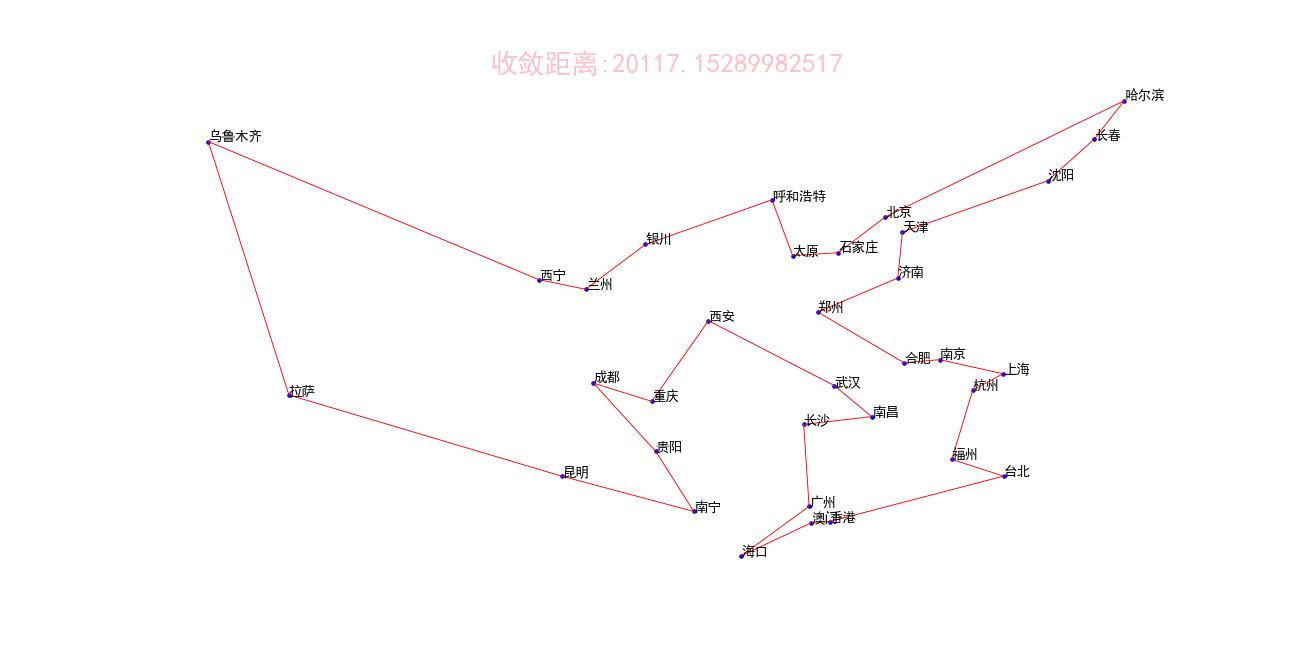
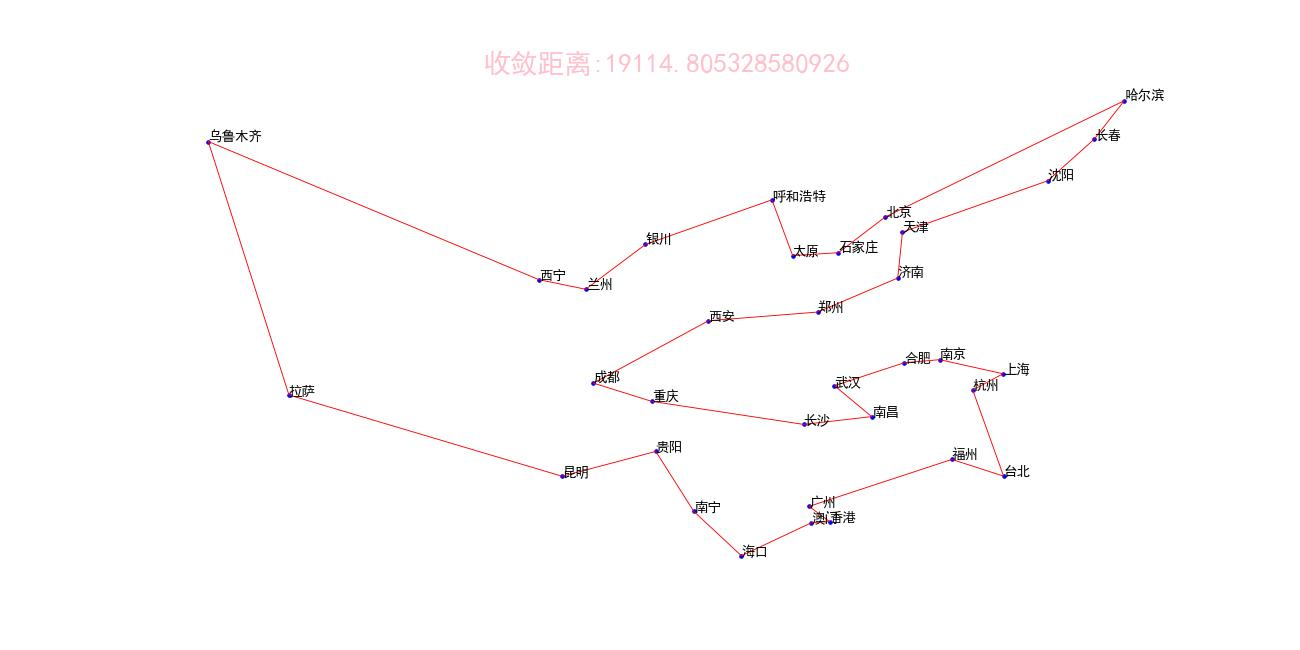
update README.md.

diff --git a/README.md b/README.md
@@ -13,33 +13,18 @@ python main.py
 ````
 
 参数分析等详细参见:[遗传算法解决TSP问题](https://www.cnblogs.com/Tenerome/articles/GATSP.html)
-### 示例
 
-#### 结果示例
-参数分析
+### 效果展示
 
-![](https://img2022.cnblogs.com/blog/2629720/202210/2629720-20221022133702696-686774422.png)
-
-![](https://img2022.cnblogs.com/blog/2629720/202210/2629720-20221022133703157-1684368219.png)
-
-![](https://img2022.cnblogs.com/blog/2629720/202210/2629720-20221022133704084-195858016.png)
-
-![](https://img2022.cnblogs.com/blog/2629720/202210/2629720-20221022133704632-869600904.png)
-
-![](https://img2022.cnblogs.com/blog/2629720/202210/2629720-20221022133705184-780704412.png)
-
-##### 主程序
-收敛距离
-
-![pic](https://img2022.cnblogs.com/blog/2629720/202210/2629720-20221022133705611-896190799.png)
-
-过程曲线图
-
-![](https://img2022.cnblogs.com/blog/2629720/202210/2629720-20221022133706056-1473367380.png)
-
+#### 主程序
 动态化
+![gif](pics/output.gif)
+收敛距离
+![pic](pics/last.jpg)
+过程曲线图
+![pic](pics/Line.jpg)
 
-![](https://img2022.cnblogs.com/blog/2629720/202210/2629720-20221022133706586-307628173.png)
+
 
 
 
